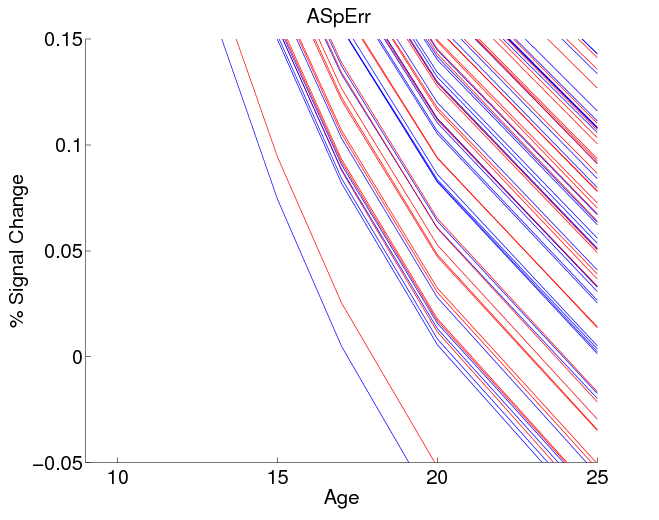
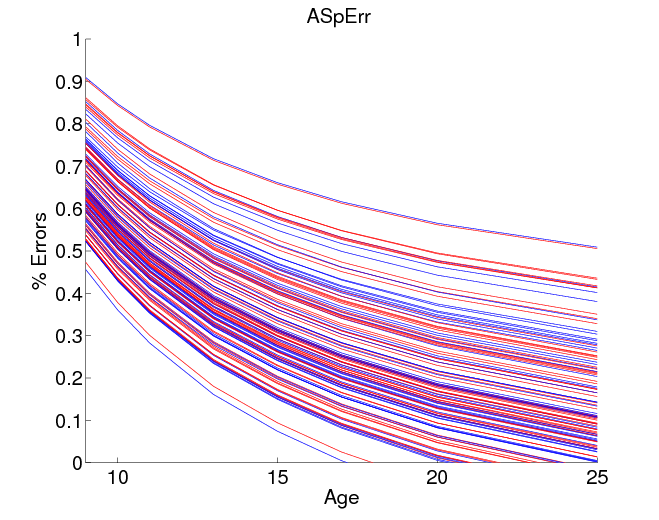
% errors needs own ylim and ylabel

diff --git a/ROIHLM/plotParallel.m b/ROIHLM/plotParallel.m
@@ -129,6 +129,9 @@ for i=1:length(files)
    if (regexp(rname,'lat'))
       ylab='Latency (ms)';
       yl=[300 700];
+   elseif (regexp(rname,'Err'))
+      ylab='% Errors';
+      yl=[0 1];
    else
       ylab='% Signal Change'; 
       yl=[-.05 .15];
